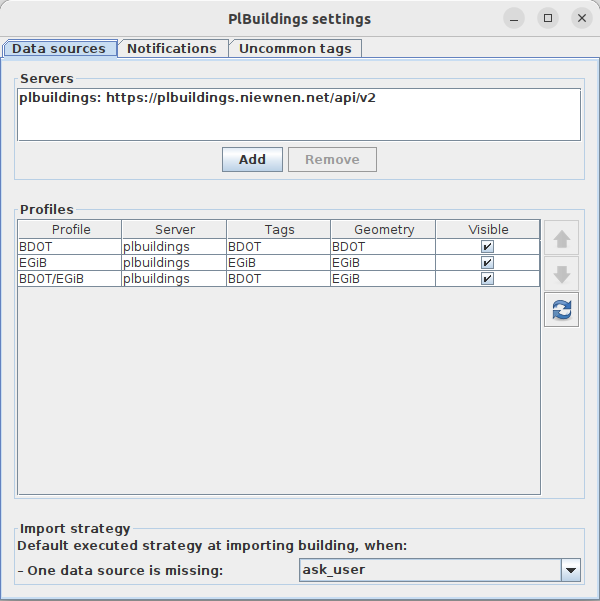
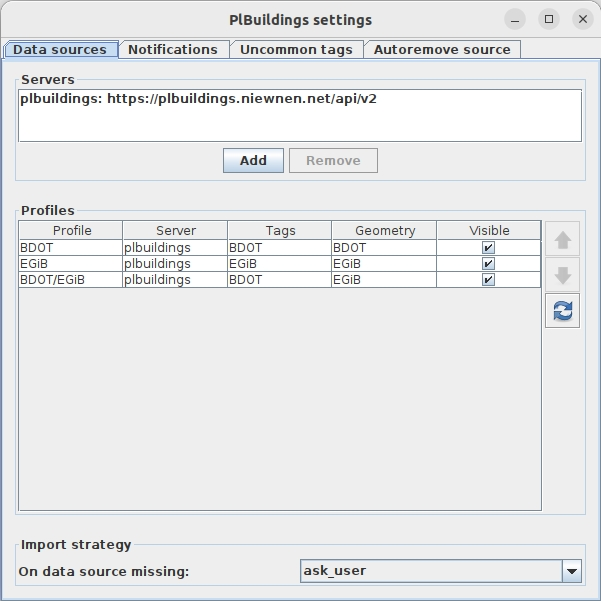
Update READMEs features and screenshots

diff --git a/README.md b/README.md
@@ -18,7 +18,9 @@ Wtyczka komunikuje się z [serwerem PLBuildings](https://github.com/praszuk/josm
     - Szukanie wartości "survey".
     - Zapobieganie zubożeniu tagów (np. `detached` -/> `house`)
     - Unikanie błędów związanych z `building:levels` w zależności od tego, czy zaznaczony budynek ma tag `roof:levels`.
-- Sprawdzanie zaimportowanych budynków pod względem nietypowych tagów.
+- Sprawdzanie zaimportowanych budynków w celu powiadomienia o nietypowych tagach.
+- Sprawdzanie zaimportowanych budynków w celu powiadomienia o tagach z prefiksami cyklu życia.
+- Obsługa tagu `construction=*`.
 - Statusy (aktualny stan akcji importu).
 - Tryby importu:
     - Pełny – domyślny (pełny import nowego budynku lub pełna zamiana)
@@ -29,6 +31,7 @@ Wtyczka komunikuje się z [serwerem PLBuildings](https://github.com/praszuk/josm
     - Wiele źródeł danych, w tym złączone źródła danych (np. 1 dla geometrii, 2 dla tagów) – zawiera to również mechanizm, który obsługuje braki w wybranym źródle.
     - Powiadomienia
     - Nietypowe tagi
+    - Auto usuwanie źródła
     - ...więcej ustawień można znaleźć w ustawieniach zaawansowanych JOSMa, szukając po kluczu `plbuildings.`
 - Boczny panel GUI (tzw. Toggle Dialog), który zawiera:
     - Aktualny status
@@ -36,7 +39,7 @@ Wtyczka komunikuje się z [serwerem PLBuildings](https://github.com/praszuk/josm
     - Źródło danych
     - Ostatnie tagi (wraz ze wskaźnikiem nietypowych tagów)
 - Automatyczne dodawanie tagów `source:building` i `source:geometry`.
-- Automatyczne usuwanie tagów `source=geoportal.gov.pl` i `source=bing`.
+- Automatyczne usuwanie wybranych wartości z klucza `source` (np. `geoportal.gov.pl`).
 
 ## Jak z niej korzystać
 1. Zainstaluj wtyczkę w JOSMie (tak jak każdą inną – przez ustawienia JOSMa).
@@ -69,7 +72,7 @@ Ustawienia wtyczki `Menu->Dane->PlBuildings: Ustawienia`:
 ![Ustawienia wtyczki: źródła danych](media/settings_data_sources.png)
 ![Ustawienia wtyczki: powiadomienia](media/settings_notifications.png)
 ![Ustawienia wtyczki: nietypowe tagi](media/settings_uncommon_tags.png)
-
+![Ustawienia wtyczki: auto usuwanie źródła](media/settings_autoremove_source.png)
 
 ## Licencja
 [GPLv3](LICENSE)

diff --git a/README.en.md b/README.en.md
@@ -18,7 +18,9 @@ It communicates with the [PLBuildings server](https://github.com/praszuk/josm-pl
   - Looking for "survey" value.
   - Preventing tags simplification (e.g. `detached` -/> `house`)
   - Avoiding breaking `building:levels` if selected budilings has `roof:levels` tag.
-- Post-checking imported building (looking for uncommon tags).
+- Post-checking imported building to notify about uncommon tags.
+- Post-checking imported building to notify if object contains tags with lifecycle prefixes.
+- Handling `construction=*` tag.
 - Statuses (current state of import action).
 - Import modes:
   - Full – default (full import of new building or full replace)
@@ -29,6 +31,7 @@ It communicates with the [PLBuildings server](https://github.com/praszuk/josm-pl
   - Multiple data sources including combined data sources (1st for geometry, 2nd for tags) – it also contains resolver if one source is missing
   - Notifications
   - Uncommon tags
+  - Autoremove source
   - ...more settings in JOSM advanced preferences with searching by key `plbuildings.`
 - GUI Sidebar (Toggle Dialog) with:
   - Current status (of import operation)
@@ -36,7 +39,7 @@ It communicates with the [PLBuildings server](https://github.com/praszuk/josm-pl
   - Data source
   - Latest tags (with Uncommon tags indicator)
 - Auto-inject `source:building` and `source:geometry` tags
-- Autoremove `source=geoportal.gov.pl` or `source=bing` tags
+- Autoremove specific values from the `source` tag (e.g. `geoportal.gov.pl`)
 
 ## How to use it
 1. Install plugin in JOSM (same as other plugins via JOSM plugin settings).
@@ -72,6 +75,7 @@ Plugin settings `Menu->Data->PlBuildings: Settings`:
 ![Plugin settings: data sources](media/settings_data_sources.png)
 ![Plugin settings: notifications](media/settings_notifications.png)
 ![Plugin settings: uncommon tags](media/settings_uncommon_tags.png)
+![Plugin settings: autoremove source](media/settings_autoremove_source.png)
 
 ## License
 [GPLv3](LICENSE)
